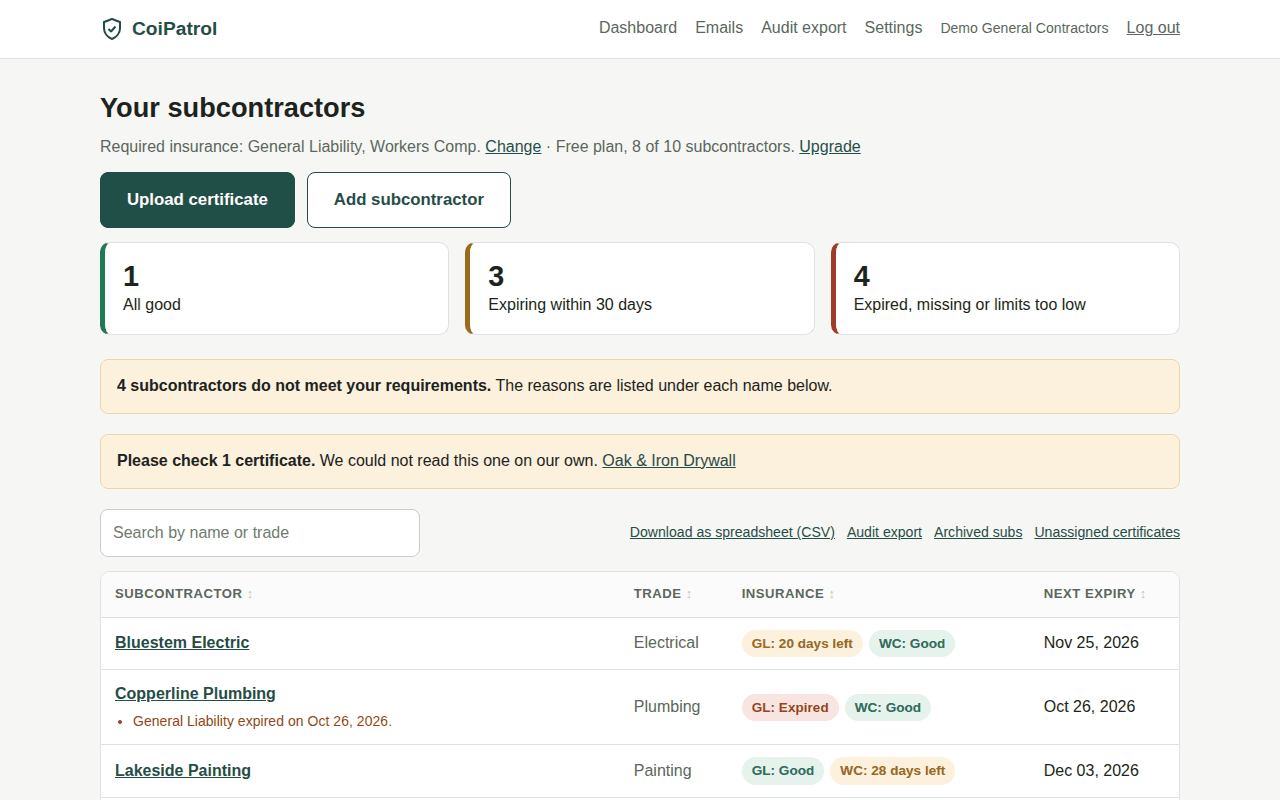
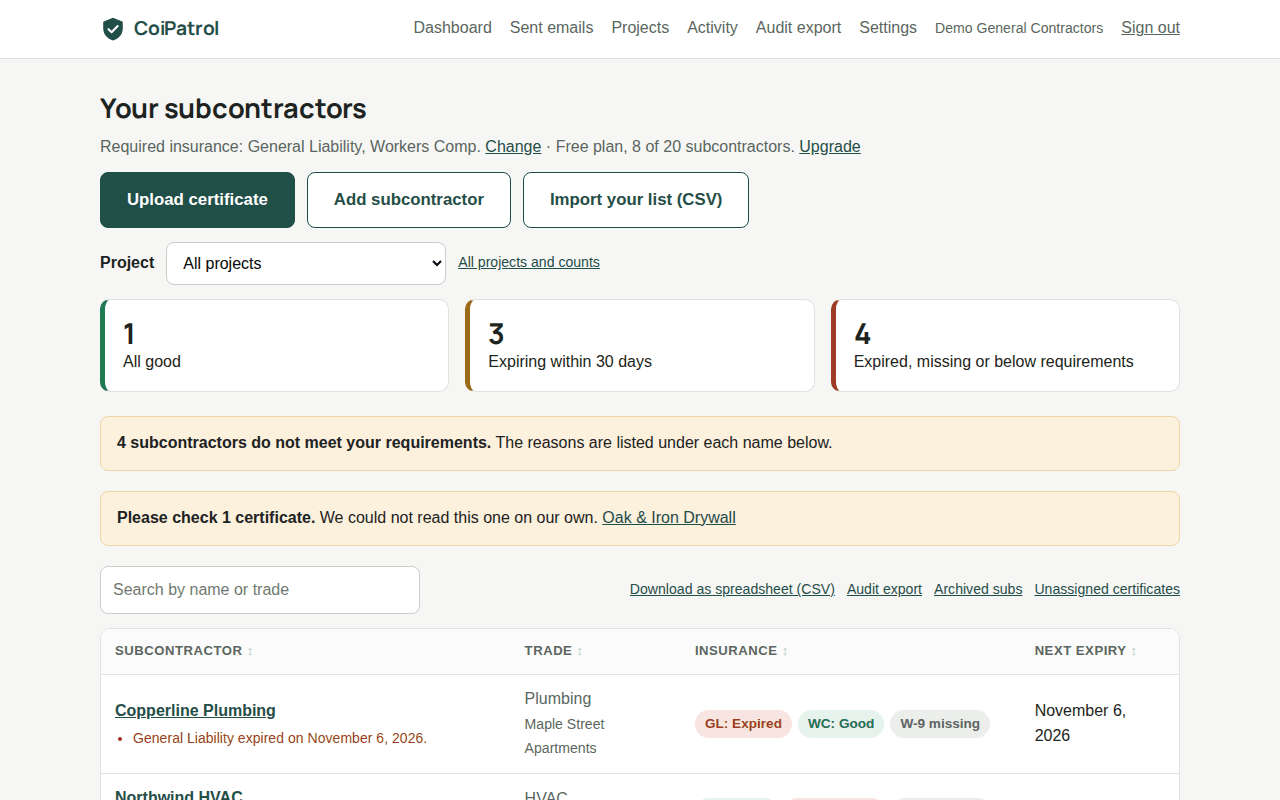
coipatrol site: dashboard picture retaken with the new red counter wording, alt text and social preview updated

diff --git a/index.html b/index.html
@@ -251,7 +251,7 @@
 
 <section class="wrap">
 <figure class="shot">
-  <img src="/img/demo-dashboard.png" width="1280" height="800" loading="lazy" alt="CoiPatrol dashboard for a demo company with 8 subcontractors. Status counts show 1 all good, 3 expiring within 30 days and 4 expired, missing or limits too low. Below them a list of subs shows trade, general liability and workers comp status and next expiry date.">
+  <img src="/img/demo-dashboard.png" width="1280" height="800" loading="lazy" alt="CoiPatrol dashboard for a demo company with 8 subcontractors. Status counts show 1 all good, 3 expiring within 30 days and 4 expired, missing or below requirements. Below them a list of subs shows trade, general liability and workers comp status and next expiry date.">
   <figcaption>Demo account, sample data</figcaption>
 </figure>
 <p>Put each sub on a project, then filter the dashboard by project.</p>

diff --git a/pricing/index.html b/pricing/index.html
@@ -265,7 +265,7 @@
   <p><a href="https://app.coipatrol.com/demo">See the live demo, no signup</a></p>
 
   <figure class="shot">
-    <img src="/img/demo-dashboard.png" width="1280" height="800" loading="lazy" alt="CoiPatrol dashboard for a demo company with 8 subcontractors. Status counts show 1 all good, 3 expiring within 30 days and 4 expired, missing or limits too low. Below them a list of subs shows trade, general liability and workers comp status and next expiry date.">
+    <img src="/img/demo-dashboard.png" width="1280" height="800" loading="lazy" alt="CoiPatrol dashboard for a demo company with 8 subcontractors. Status counts show 1 all good, 3 expiring within 30 days and 4 expired, missing or below requirements. Below them a list of subs shows trade, general liability and workers comp status and next expiry date.">
     <figcaption>Demo account, sample data</figcaption>
   </figure>
 
